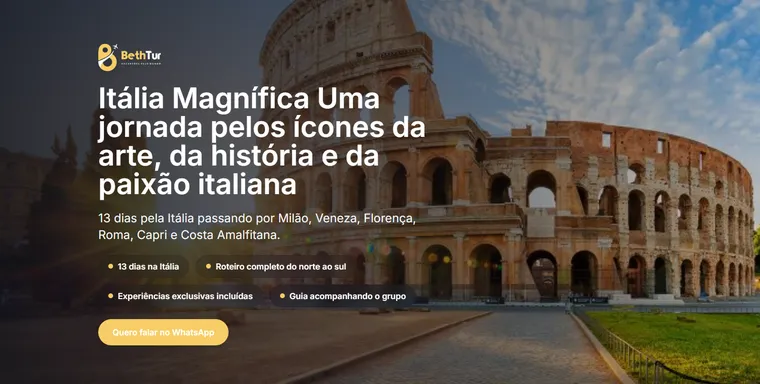
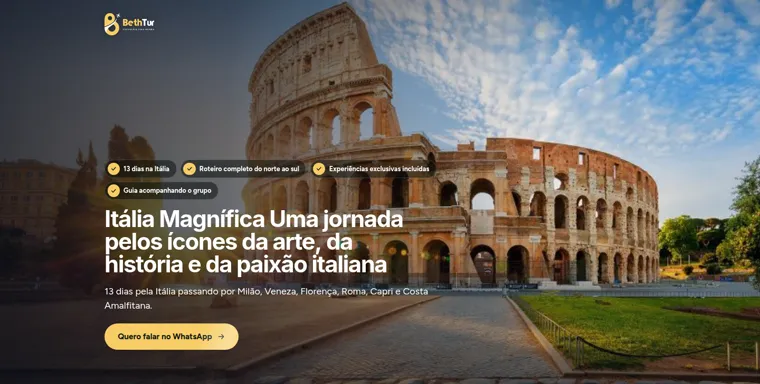
LP: exemplos no visual novo e sem o aviso de cookies
- Miniaturas de Abrolhos, Foz do Iguaçu e Itália capturadas das páginas
  publicadas, já no visual novo (banner imersivo), recortadas no banner.
- lp-exemplos.mjs: confere pela API se a página está no ar antes de capturar
  (fora do ar fica a imagem antiga); atrás de proxy, os pedidos passam pelo
  Node (o Chromium recebia ERR_TOO_MANY_RETRIES); esperas com teto.
- A página de vendas não mostra mais o aviso de cookies (como o checkout);
  ele cobria a capa. As páginas publicadas das agências continuam com ele.

Claude-Session: https://claude.ai/code/session_01Csu7bgfPwj4X3xJzyH8jRU

diff --git a/frontend/src/views/public/SalesLandingView.vue b/frontend/src/views/public/SalesLandingView.vue
@@ -88,7 +88,7 @@
         <p class="lp-swipe" aria-hidden="true">Arraste para o lado para ver mais</p>
         <div class="lp-exs lp-rail">
           <article v-for="example in EXAMPLES" :key="example.title" class="lp-ex">
-            <img :src="example.image" :alt="`Roteiro ${example.title}`" loading="lazy" decoding="async" width="760" height="420" />
+            <img :src="example.image" :alt="`Roteiro ${example.title}`" loading="lazy" decoding="async" width="760" height="384" />
             <div class="lp-ex-body">
               <p class="lp-ex-meta"><span class="lp-ex-badge">{{ example.badge }}</span>{{ example.agency }}</p>
               <h3 class="lp-ex-title">{{ example.title }}</h3>

diff --git a/frontend/src/App.vue b/frontend/src/App.vue
@@ -66,7 +66,8 @@ const cookieLine2 = localize(cookieCopy.line2);
 const cookieAcceptLabel = localize(cookieCopy.accept);
 const cookieRejectLabel = localize(cookieCopy.reject);
 const publicRouteNames = new Set(["public-page", "custom-domain-default", "custom-domain-page"]);
-const cookieBannerHiddenRouteNames = new Set(["custom-checkout"]);
+// Checkout e página de vendas ficam sem o aviso de cookies (ele cobria a capa da página de vendas).
+const cookieBannerHiddenRouteNames = new Set(["custom-checkout", "sales-landing"]);
 const publicShellClass = "public-shell";
 const adminShellClass = "admin-shell";
 const plansShellClass = "plans-shell";
